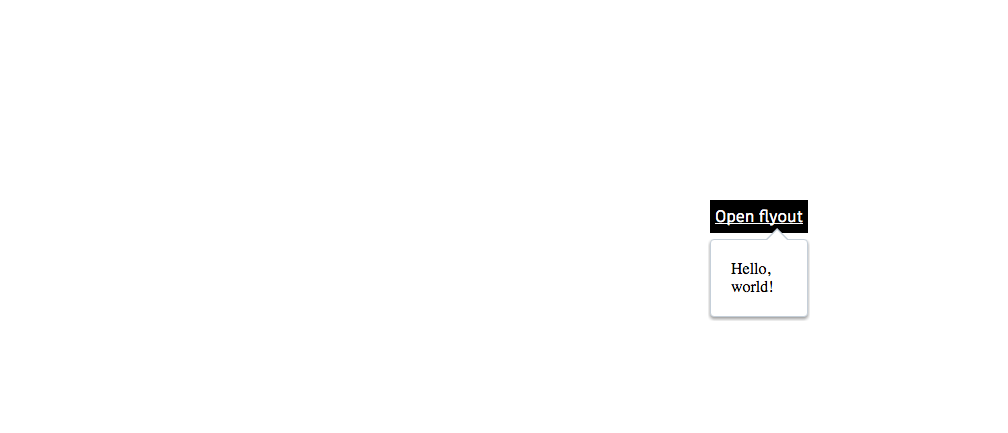
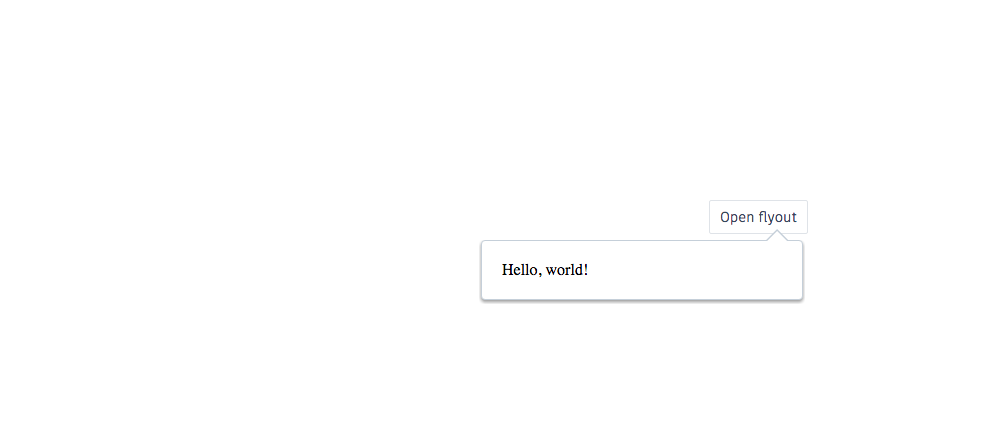
Add/Update gemini tests for profile and button

Changed region(s): [[0.4613, 0.6005, 0.7996, 0.7506], [0.4921, 0.4503, 0.7996, 0.5704], [0.4921, 0.6005, 0.5843, 0.6605]]

diff --git a/src/web/components/global-nav/container/top-nav/profile/tests/gemini-profile.html b/src/web/components/global-nav/container/top-nav/profile/tests/gemini-profile.html
@@ -1,0 +1,47 @@
+<html>
+    <head>
+        <link rel="stylesheet" href="../../../../../../../../dist/hig.css">
+        <script type="text/javascript" src="../../../../../../../../dist/hig.js"></script>
+    </head>
+    <body>
+        <style>
+            body, html{
+                margin: 0; padding: 0;
+            }
+        </style>
+
+        <script>
+
+            // CREATE GLOBALNAV COMPONENT
+            var GlobalNav = new Hig.GlobalNav();
+            GlobalNav.mount("body");
+
+            // CONTAINER AREA
+            var Container = new GlobalNav.partials.Container();
+            GlobalNav.addContainer(Container);
+
+            // ADD TOP GlobalNav IN CONTENT AREA
+            var TopNav = new Container.partials.TopNav({
+                "logo": "https://www.dexigner.com/images/news/xw/22856.jpg",
+                "logo_link": "#"
+            });
+            Container.addTopNav(TopNav);
+
+            TopNav.setLogo("../../../../tests/bim-logo.png"); // Update logo
+            TopNav.setLogoLink("http://autodesk.com"); // update logo link
+
+            // CREATE PROFILE
+            var MyProfile1 = new TopNav.partials.Profile({
+                image: "../../../../tests/egg.jpg",
+                name: "Jenny Eishingdrelo",
+                email: "jenny.eishingdrelo@autodesk.com"
+            });
+
+            TopNav.addProfile(MyProfile1);
+
+            MyProfile1.open();
+
+        </script>
+
+    </body>
+</html>

diff --git a/src/web/basics/button/tests/gemini-button.html b/src/web/basics/button/tests/gemini-button.html
@@ -1,0 +1,35 @@
+<html>
+    <head>
+        <link rel="stylesheet" href="../../../../../dist/hig.css">
+        <script type="text/javascript" src="../../../../../dist/hig.js"></script>
+
+        <style>
+            .buttonHolder {
+                display: inline-block;
+                padding: 30px;
+            }
+        </style>
+    </head>
+    <body>
+        <div class='test-container' style="padding: 40px; margin: 0;">
+            <div class='regular-button buttonHolder'></div>
+            <div class='link-button buttonHolder'></div>
+        </div>
+
+        <script>
+
+            var RegularButton = new Hig.Button({
+                title: "Regular button"
+            });
+            RegularButton.mount(".regular-button");
+
+            var LinkButton = new Hig.Button({
+                title: "Link button",
+                style: "link"
+            });
+            LinkButton.mount(".link-button");
+
+        </script>
+
+    </body>
+</html>

diff --git a/gemini/button-test.js b/gemini/button-test.js
@@ -1,5 +1,13 @@
-gemini.suite('button', (suite) => {
-  suite.setUrl('src/web/basics/button/tests/tests-button.html')
-       .setCaptureElements('.test-container')
-       .capture('regular button');
+gemini.suite('button', (parent) => {
+  parent.setUrl('src/web/basics/button/tests/gemini-button.html');
+
+  gemini.suite('regular', (suite) => {
+       suite.setCaptureElements('.regular-button')
+            .capture('regular button');
+  });
+
+  gemini.suite('link', (suite) => {
+       suite.setCaptureElements('.link-button')
+            .capture('link button');
+  });
 });

diff --git a/gemini/profile-test.js b/gemini/profile-test.js
@@ -1,8 +1,8 @@
 gemini.suite('profile', (parent) => {
-  parent.setUrl('src/web/components/global-nav/tests/gemini-global-nav.html');
+  parent.setUrl('src/web/components/global-nav/container/top-nav/profile/tests/gemini-profile.html');
 
-  gemini.suite('profile-image', (suite) => {
-    suite.setCaptureElements('.hig__global-nav__profile')
-         .capture('profile-image');
+  gemini.suite('profile', (suite) => {
+    suite.setCaptureElements('body')
+         .capture('open');
   });
 });
